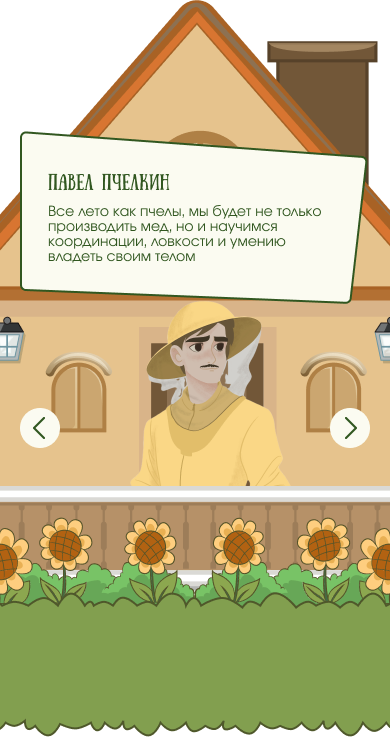
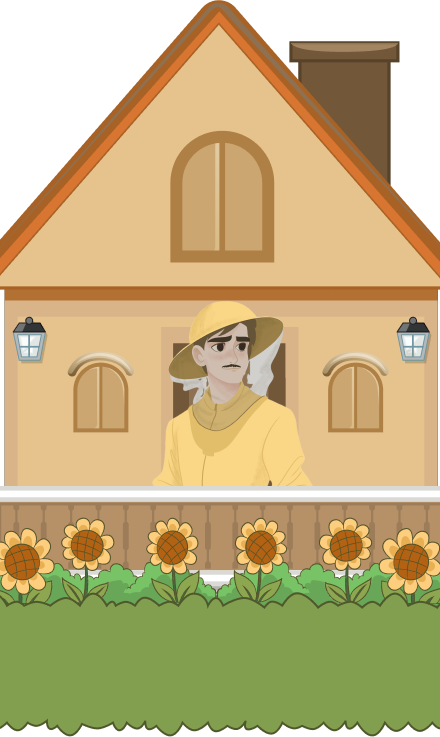
upd

diff --git a/src/pages/IndexPage.vue b/src/pages/IndexPage.vue
@@ -141,20 +141,58 @@
         </div>
       </div>
       <div class="section_speaker_mobile" v-if="$q.screen.width <= 440">
-        <q-carousel style="height: 737px;" animated v-model="slide" arrows navigation infinite class="background_fon">
-          <q-carousel-slide :name="1" img-src="src/assets/landing/mobile/section_speaker_1.webp" />
-          <q-carousel-slide :name="2" img-src="src/assets/landing/mobile/section_speaker_2.webp" />
-          <q-carousel-slide :name="3" img-src="src/assets/landing/mobile/section_speaker_3.webp" />
-          <q-carousel-slide :name="4" img-src="src/assets/landing/mobile/section_speaker_4.webp" />
+        <q-carousel style="height: 737px;" animated v-model="slide" arrows control-type="unelevated" infinite
+          class="background_fon" control-color="white" control-text-color="primary" transition-prev="slide-right"
+          transition-next="slide-left" swipeable>
+          <q-carousel-slide :name="1" img-src="src/assets/landing/mobile/section_speaker_1.webp"
+            style="background-size: contain; background-repeat: no-repeat;">
+            <AppearBlock class="textblock_general textblock_notmirrored flex flex-center q-pa-md">
+              <div class="textblock_textwrapper text-primary q-pl-none q-pt-md">
+                <div class="font_Sunday h3">Алена Грядкина</div>
+                <div class="h6">Вместе, мы не только посадим урожай на грядках, но и усовершенствуем навыки счета и
+                  память. Научимся вязать узлы и ухаживать за растениями</div>
+              </div>
+            </AppearBlock>
+          </q-carousel-slide>
+          <q-carousel-slide :name="2" img-src="src/assets/landing/mobile/section_speaker_2.webp"
+            style="background-size: contain; background-repeat: no-repeat;">
+            <AppearBlock class="textblock_general textblock_mirrored flex flex-center q-pa-md">
+              <div class="textblock_textwrapper text-primary q-pl-md q-pt-md">
+                <div class="font_Sunday h3">Егор Тепличный</div>
+                <div class="h6">Теплица на нашей даче — это не только идеальное место для выращивания урожая, но и
+                  летний театр по развитию речи</div>
+              </div>
+            </AppearBlock>
+          </q-carousel-slide>
+          <q-carousel-slide :name="3" img-src="src/assets/landing/mobile/section_speaker_3.webp"
+            style="background-size: contain; background-repeat: no-repeat;">
+            <AppearBlock class="textblock_general textblock_notmirrored flex flex-center q-pa-md">
+              <div class="textblock_textwrapper text-primary q-pl-none q-pt-md">
+                <div class="font_Sunday h3">Павел Пчелкин</div>
+                <div class="h6">Все лето как пчелы, мы будет не только производить мед, но и научимся координации,
+                  ловкости и умению владеть своим телом</div>
+              </div>
+            </AppearBlock>
+          </q-carousel-slide>
+          <q-carousel-slide :name="4" img-src="src/assets/landing/mobile/section_speaker_4.webp"
+            style="background-size: contain; background-repeat: no-repeat;">
+            <AppearBlock class="textblock_general textblock_mirrored flex flex-center q-pa-md">
+              <div class="textblock_textwrapper text-primary q-pl-md q-pt-md">
+                <div class="font_Sunday h3">Маша Садовая</div>
+                <div class="h6">Лето — это время творчества и отдыха. Я научу вас делать стильные штучки из подручных
+                  дачных предметов</div>
+              </div>
+            </AppearBlock>
+          </q-carousel-slide>
         </q-carousel>
       </div>
-      <div v-if="$q.screen.width <= 440"
+      <!-- <div v-if="$q.screen.width <= 440"
         style="height: 254px; width: 100%; margin-top: -100px; z-index: 100; position: relative;" :style="[
           $q.screen.gt.sm ?
             { marginTop: '-100px', backgroundImage: `url(${img_sectionBanner_grassWithSunflowers})`, backgroundRepeat: 'no-repeat' }
             : { marginTop: '-220px', backgroundImage: `url(${img_sectionBanner_grassWithSunflowers})`, backgroundRepeat: 'no-repeat' }
         ]" class="flex items-center justify-center" :class="$q.screen.gt.sm ? 'h5 q-pa-md' : 'q-pa-sm'">
-      </div>
+      </div> -->
     </div>
     <div class="section_events">
       <div class="section_events_background">
@@ -272,6 +310,7 @@ const slide2 = ref(1)
 .textblock_general {
   width: 440px;
   height: 235px;
+  max-width: 100%;
 }
 
 // .textblock_regular,
